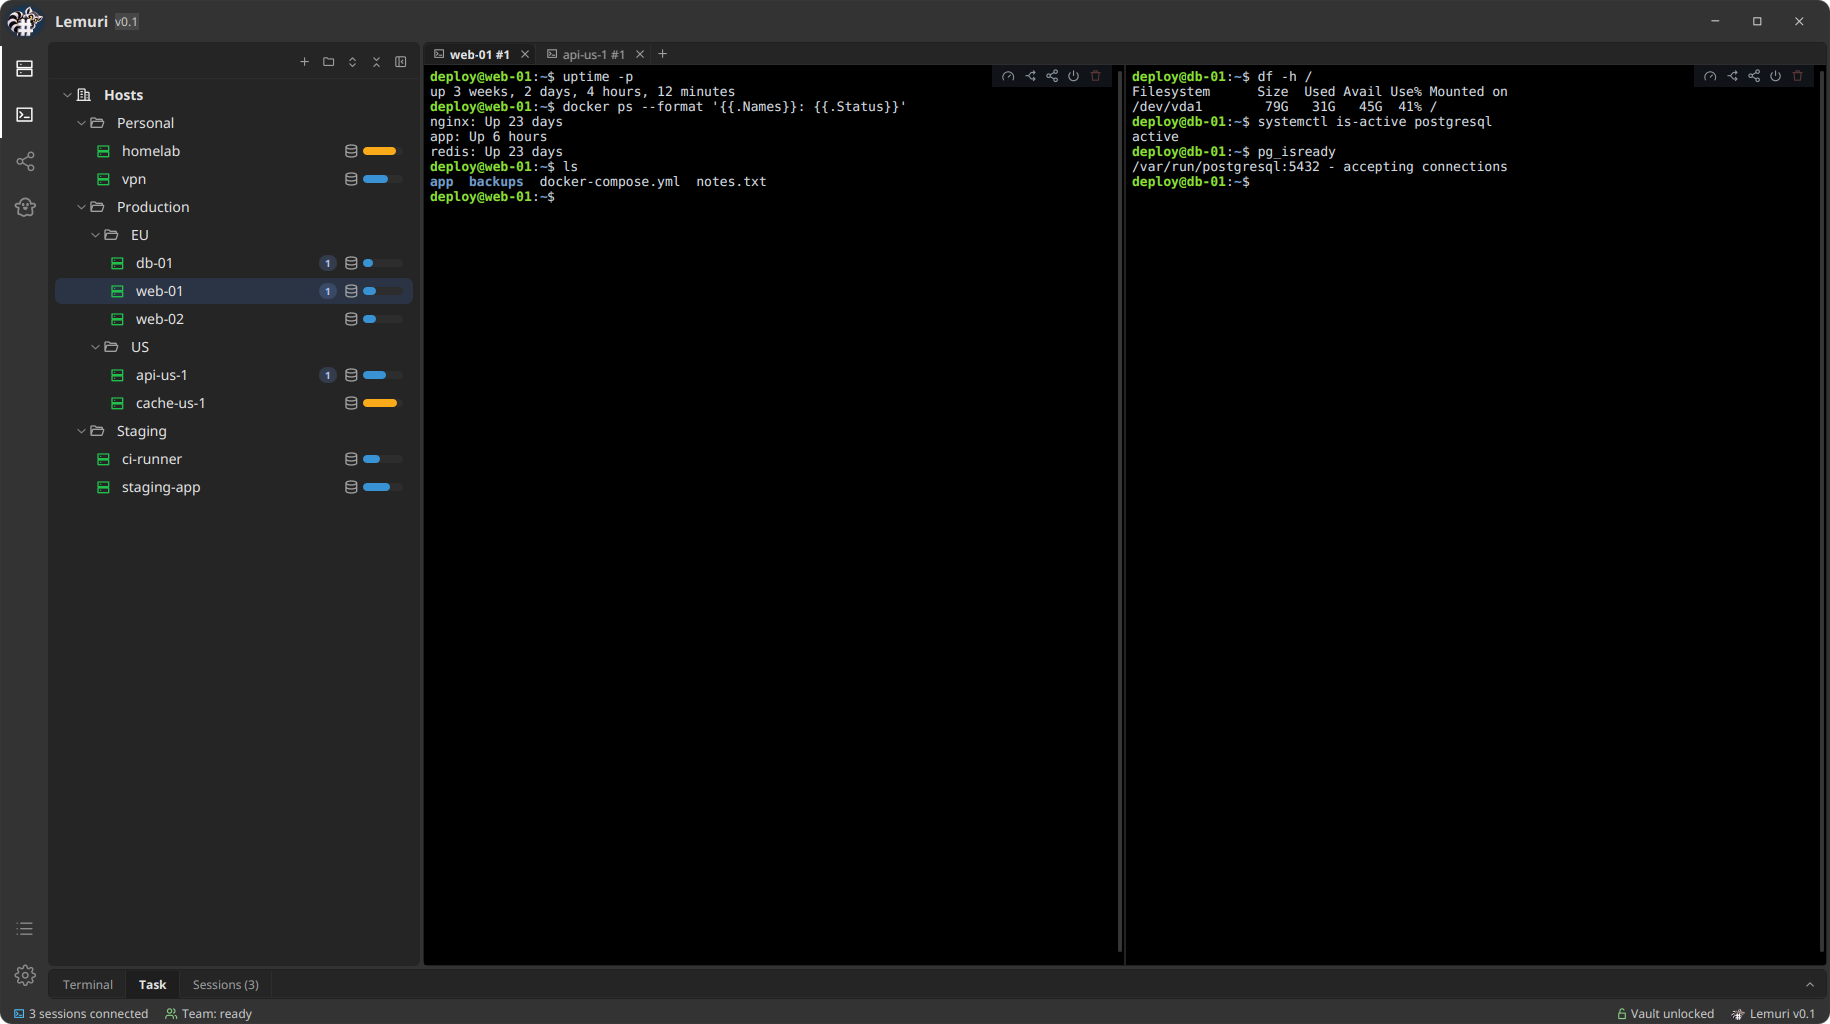
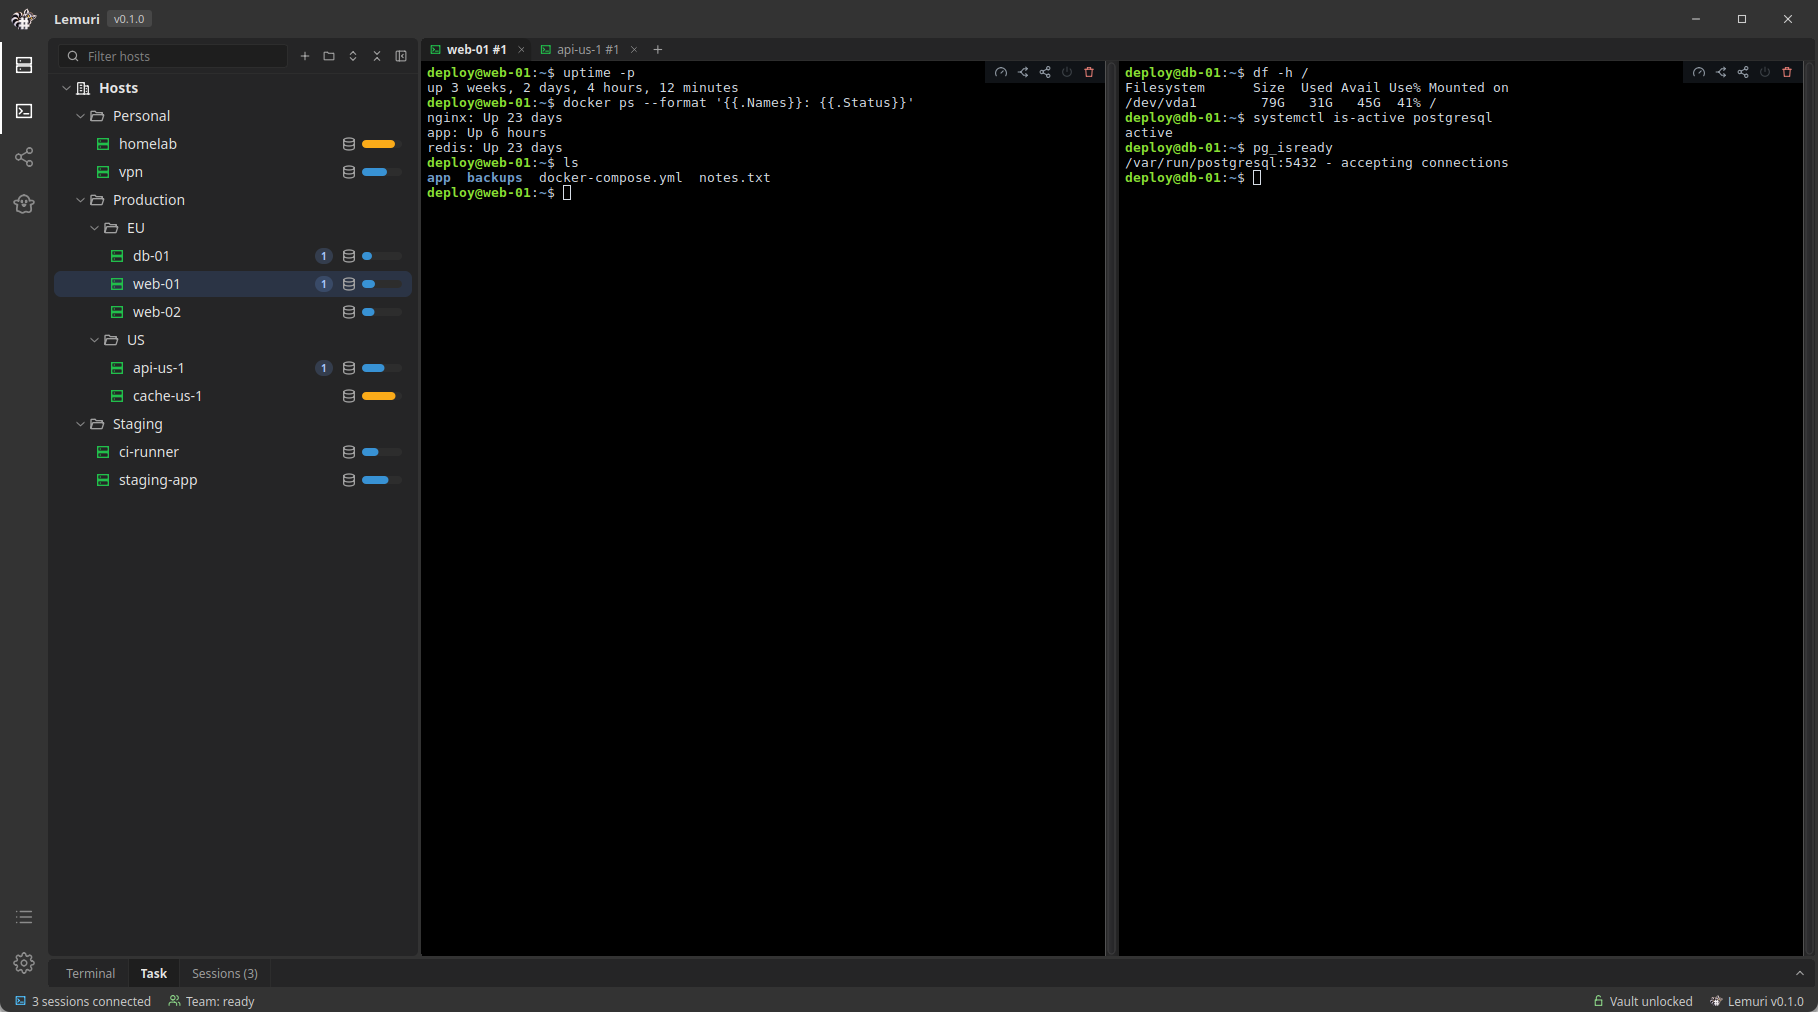
Lemuri is now the native app: download, build, screenshots and signing keys
The .deb from the releases of getlemuri/lemuri, building with CMake, every screenshot taken again from the new app
with made-up servers, the fingerprints of the package and tag signing keys, llms.txt and the sitemap updated.

diff --git a/index.html b/index.html
@@ -249,7 +249,7 @@
     <div class="wrap">
       <canvas id="swirl" width="680" height="680" aria-hidden="true"></canvas>
       <h1>Every server.<br><span class="water">One console.</span></h1>
-      <p class="subtitle">Lemuri is a free, open source desktop SSH client for the servers and VPS you manage: a tree of hosts, tabs and split terminals, uploads over SFTP, live metrics, an encrypted vault, one-file backups, and safe sharing with your team.</p>
+      <p class="subtitle">Lemuri is a free, open source desktop SSH client for the servers and VPS you manage, native and light (C++ and Qt, it opens in a fraction of a second): a tree of hosts, tabs and split terminals, uploads over SFTP, live metrics, an encrypted vault, one-file backups, and safe sharing with your team.</p>
       <div class="actions">
         <a class="btn primary" id="get" href="#download">
           <svg viewBox="0 0 24 24" fill="none" stroke="currentColor" stroke-width="2" stroke-linecap="round" stroke-linejoin="round"><path d="M12 3v12M7 10l5 5 5-5M5 21h14"/></svg>
@@ -260,7 +260,7 @@
           <span>Source on GitHub</span>
         </a>
       </div>
-      <p class="download-note" id="download-note">Free and open source · MIT license</p>
+      <p class="download-note" id="download-note">Free and open source · MIT license · Linux (.deb)</p>
     </div>
   </div>
 
@@ -312,10 +312,10 @@
           </div>
         </div>
         <div class="row">
-          <div class="window"><img src="shots/transfers-card.png" width="880" height="360" loading="lazy" alt="Right-click on notes.txt after ls: the menu offers Upload files to the current folder and Download notes.txt"><img class="below" src="shots/progress-card.png" width="1040" height="95" loading="lazy" alt="The status bar during a download: app.log at 64 percent, one more transfer queued, with a progress bar and a cancel button"></div>
+          <div class="window"><img src="shots/transfers-card.png" width="880" height="360" loading="lazy" alt="Right-click on notes.txt after ls: the menu offers Upload files to the current folder and Download notes.txt"><img class="below" src="shots/progress-card.png" width="1040" height="58" loading="lazy" alt="The status bar during a download: app.log at 64 percent, one more transfer queued, with a progress bar and a cancel button"></div>
           <div>
             <h3>Upload and download, from the terminal</h3>
-            <p><strong>Upload:</strong> drag files or folders onto a terminal, or right-click it and choose <em>Upload files to the current folder…</em>. They go where the shell is.</p><p><strong>Download:</strong> after an <code>ls</code>, right-click a file or folder name and choose <em>Download "name"…</em>, then pick the folder on your computer.</p><p>Before anything moves Lemuri tells you what would be overwritten. Progress, the queue and a cancel button are in the status bar; files are written under a temporary name until complete, and symbolic links are not followed.</p>
+            <p><strong>Upload:</strong> drag files or folders onto a terminal, or right-click it and choose <em>Upload files to the current folder…</em>. They go to the folder the shell is in, when it says so (see the steps below), otherwise to your home folder.</p><p><strong>Download:</strong> after an <code>ls</code>, right-click a file or folder name and choose <em>Download "name"…</em>, then pick the folder on your computer.</p><p>Before anything moves Lemuri tells you what would be overwritten. Progress, the queue and a cancel button are in the status bar; files are written under a temporary name until complete, and symbolic links are not followed.</p>
           </div>
         </div>
         <div class="row">
@@ -333,14 +333,14 @@
           </div>
         </div>
         <div class="row">
-          <div class="window"><img src="shots/backup-card.png" width="664" height="600" loading="lazy" alt="Export everything: the SSH keys to include, ticked, and a passphrase for the file"></div>
+          <div class="window"><img src="shots/backup-card.png" width="680" height="553" loading="lazy" alt="Export everything: the SSH keys to include, ticked, and a passphrase for the file"></div>
           <div>
             <h3>Backup to another PC</h3>
             <p>One encrypted file with your hosts, the whole vault and the SSH keys you tick. Import it on the new PC: nothing in <code>~/.ssh</code> is ever overwritten.</p>
           </div>
         </div>
         <div class="row">
-          <div class="window"><img src="shots/sshimport-card.png" width="860" height="396" loading="lazy" alt="The import of ~/.ssh/config: a table of hosts with jump hosts and keys, duplicates unticked"></div>
+          <div class="window"><img src="shots/sshimport-card.png" width="824" height="353" loading="lazy" alt="The import of ~/.ssh/config: a table of hosts with jump hosts and keys, duplicates unticked"></div>
           <div>
             <h3>Import your ~/.ssh/config</h3>
             <p>Every <code>Host</code> of your SSH configuration in a table, <code>ProxyJump</code> and keys included. Duplicates and git services start unticked.</p>
@@ -357,7 +357,7 @@
         <div class="card">
           <div class="icon"><svg viewBox="0 0 24 24" fill="none" stroke="currentColor" stroke-width="2" stroke-linecap="round" stroke-linejoin="round"><path d="M4 4l7 17 2.5-7.5L21 11z"/></svg></div>
           <h3>A clickable terminal</h3>
-          <p>After <code>ls</code>, double-click a folder to enter it or a text file to open it in <code>nano</code>; double-click at the prompt for <code>ls</code>. Lemuri types the command for you, in plain sight, skips binary and huge files, and one click on the terminal turns it off.</p>
+          <p>After <code>ls</code>, double-click a folder to enter it or a text file to open it in <code>nano</code>; double-click at the prompt for <code>ls</code>. Turn on <em>Interactive mode</em> in Settings: Lemuri then types the command for you, in plain sight and only at an empty prompt, and skips binary files and those over 1 MB.</p>
         </div>
         <div class="card">
           <div class="icon"><svg viewBox="0 0 24 24" fill="none" stroke="currentColor" stroke-width="2" stroke-linecap="round" stroke-linejoin="round"><path d="M5 11h14v10H5zM8 11V7a4 4 0 0 1 8 0v4"/></svg></div>
@@ -370,9 +370,9 @@
           <p>A <em>Terminal</em> tab at the bottom opens a shell on your own computer, next to the servers. In ghost mode it is one tab away, under the session you are watching.</p>
         </div>
         <div class="card">
-          <div class="icon"><svg viewBox="0 0 24 24" fill="none" stroke="currentColor" stroke-width="2" stroke-linecap="round" stroke-linejoin="round"><path d="M4 17l6-5-6-5M12 19h8"/></svg></div>
-          <h3>From any terminal</h3>
-          <p><code>lemuri -s db-01</code> opens the shell in the terminal you are already in, through the same jump hosts. Saved passwords come from the vault after you unlock it, and never show up in <code>ps</code>.</p>
+          <div class="icon"><svg viewBox="0 0 24 24" fill="none" stroke="currentColor" stroke-width="2" stroke-linecap="round" stroke-linejoin="round"><path d="M21 12a9 9 0 1 1-3-6.7L21 8M21 3v5h-5"/></svg></div>
+          <h3>Signed updates, in one click</h3>
+          <p>When a new version is out, Lemuri tells you and installs it from the app. Every package is signed, and the signature is checked before anything is installed; a package that does not match is refused.</p>
         </div>
       </div>
     </div>
@@ -399,7 +399,7 @@
         <h2>Move files to and from a server</h2>
         <p class="intro">Straight between your desktop and the folder you are working in, over the SSH connection that is already open: no second login, no separate SFTP client.</p>
         <ol class="steps">
-          <li><strong>Go to the folder</strong>In the terminal of the server, <code>cd</code> to where the files should land. Lemuri asks the shell where it is, so the upload follows you.</li>
+          <li><strong>Go to the folder</strong>In the terminal of the server, <code>cd</code> to where the files should land. If the shell announces its folder (OSC 7, as many shells set up by the distribution do), the upload follows it; with <em>Interactive mode</em> on in Settings, Lemuri asks the shell itself. Otherwise the files go to your home folder on the server.</li>
           <li><strong>Drop the files, or pick them</strong>Drag files or whole folders from your file manager onto the terminal. Or right-click the terminal and choose <em>Upload files to the current folder…</em> to pick them in your desktop's own file dialog.</li>
           <li><strong>Or bring one down</strong>After an <code>ls</code>, right-click the name of a file or folder and choose <em>Download "name"…</em>, then the folder on your computer. If ls listed another folder (<code>ls /var/log</code>), the name is taken from there.</li>
           <li><strong>Confirm</strong>Lemuri checks the folder on the server first and tells you which files already there would be overwritten. Nothing is sent before you say yes.</li>
@@ -423,20 +423,33 @@
   <section id="download">
     <div class="wrap">
       <h2>Get Lemuri</h2>
-      <p class="intro">Free and open source, MIT licensed. There are no ready-made packages yet: Lemuri builds and runs from source.</p>
+      <p class="intro">Free and open source, MIT licensed. A package for Ubuntu and Debian, about 1.3&nbsp;MB, that keeps itself up to date.</p>
       <div class="split">
         <div>
-          <p style="margin:0 0 10px;color:var(--muted)">With JDK 21 and <code>unzip</code> installed:</p>
+          <p style="margin:0 0 14px"><a class="btn primary link-release" href="#">
+            <svg viewBox="0 0 24 24" fill="none" stroke="currentColor" stroke-width="2" stroke-linecap="round" stroke-linejoin="round"><path d="M12 3v12M7 10l5 5 5-5M5 21h14"/></svg>
+            <span>Download the .deb</span></a></p>
+          <p style="margin:0 0 10px;color:var(--muted)">Then install it, with the libraries it needs:</p>
           <div class="terminal">
+            <div><span class="p">$ </span>sudo apt install ./lemuri_*_amd64.deb</div>
+          </div>
+          <p style="margin:22px 0 10px;color:var(--muted)">Or build it from source, with Qt 6.4 or newer, libvterm, libssh, libargon2 and OpenSSL:</p>
+          <div class="terminal">
+            <div><span class="p">$ </span>sudo apt install qt6-base-dev libvterm-dev libxcb1-dev libssh-dev libargon2-dev libssl-dev cmake ninja-build</div>
             <div><span class="p">$ </span>git clone <span class="url-repo">https://github.com/getlemuri/lemuri</span></div>
             <div><span class="p">$ </span>cd lemuri</div>
-            <div><span class="p">$ </span>./mvnw javafx:run</div>
+            <div><span class="p">$ </span>cmake -S . -B build -G Ninja &amp;&amp; cmake --build build</div>
+            <div><span class="p">$ </span>build/lemuri</div>
           </div>
-          <p style="color:var(--muted);font-size:14px">Maven is not needed: the wrapper downloads it the first time.</p>
         </div>
         <table class="facts">
-          <tr><td>Linux</td><td>Build from source. Developed and tested on Ubuntu with GNOME.</td></tr>
+          <tr><td>Linux</td><td>Ubuntu 24.04 or newer, Debian and their derivatives (.deb). Developed and tested on Ubuntu with GNOME. A .tar.gz is in every release for other distributions.</td></tr>
           <tr><td>macOS</td><td>Builds from source, but not tested on a real Mac yet.</td></tr>
+          <tr><td>Data</td><td>Your hosts, vault and settings stay in <code>~/.lemuri</code>, in the same format as the first version of Lemuri, so updating keeps them.</td></tr>
+          <tr><td>Signed</td><td>Packages are signed, and the app installs an update only if the signature matches one of these keys (<code>ssh-keygen -lf</code>):<br>
+            <code>SHA256:j0T3yuGBNy1IjFQzKAhJYvHk3sdBVy2/VPTR9D2khp4</code> releases<br>
+            <code>SHA256:hYz6UYHfOhpx57c5oNKlsmNrnhZu6hitDVzi0Hxk1qo</code> backup, kept offline<br>
+            Release tags: <code>SHA256:+EFiAMVsA/VCzYGuPjboAI5GvWm6QF+ugcAelcScT3A</code></td></tr>
         </table>
       </div>
     </div>
@@ -469,6 +482,7 @@
   document.querySelectorAll(".link-github").forEach(a => a.href = github);
   document.querySelectorAll(".link-security").forEach(a => a.href = github + "/security/advisories/new");
   document.querySelectorAll(".url-repo").forEach(s => s.textContent = github);
+  document.querySelectorAll(".link-release").forEach(a => a.href = github + "/releases/latest");
 
   // The tour viewer: the screenshot fits the window; a click zooms where you clicked (and back), the wheel
   // zooms too, dragging moves it, the arrows go to the next one, Esc or a click on the dark closes it.
